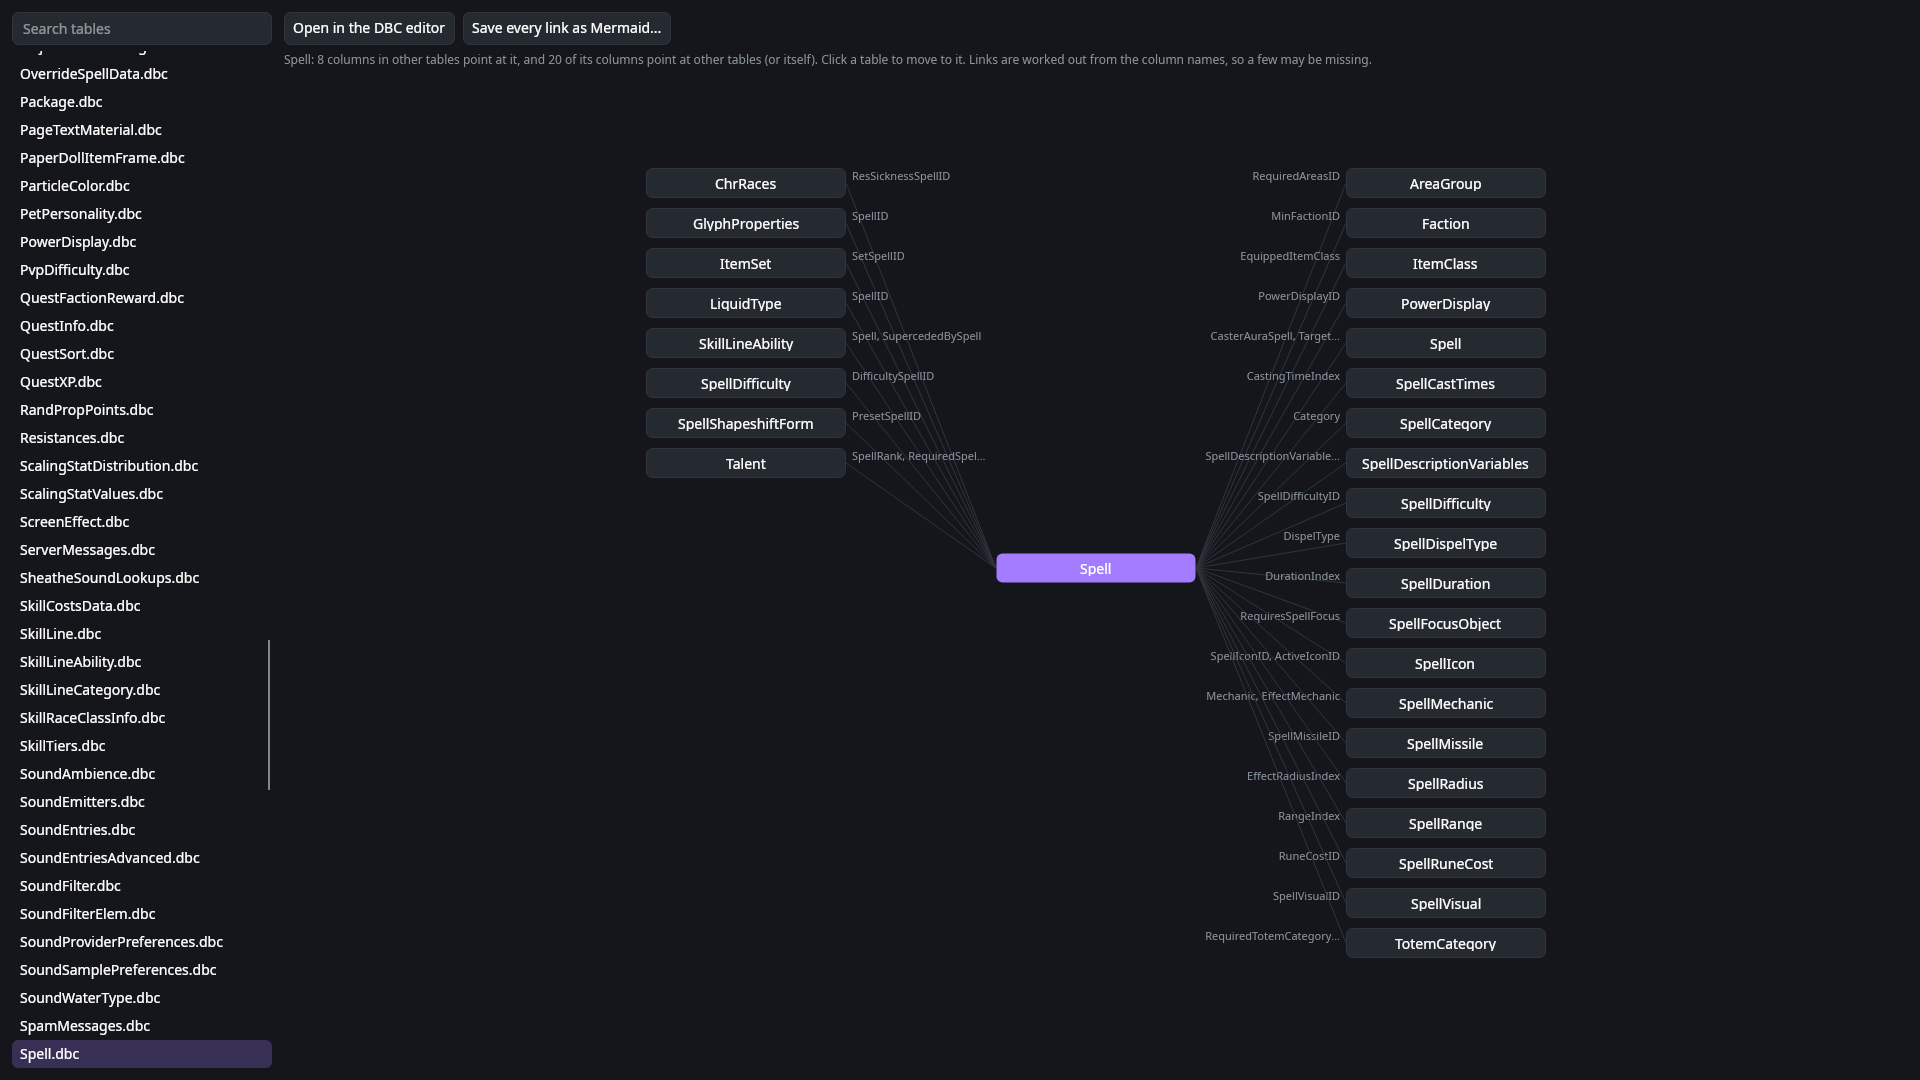
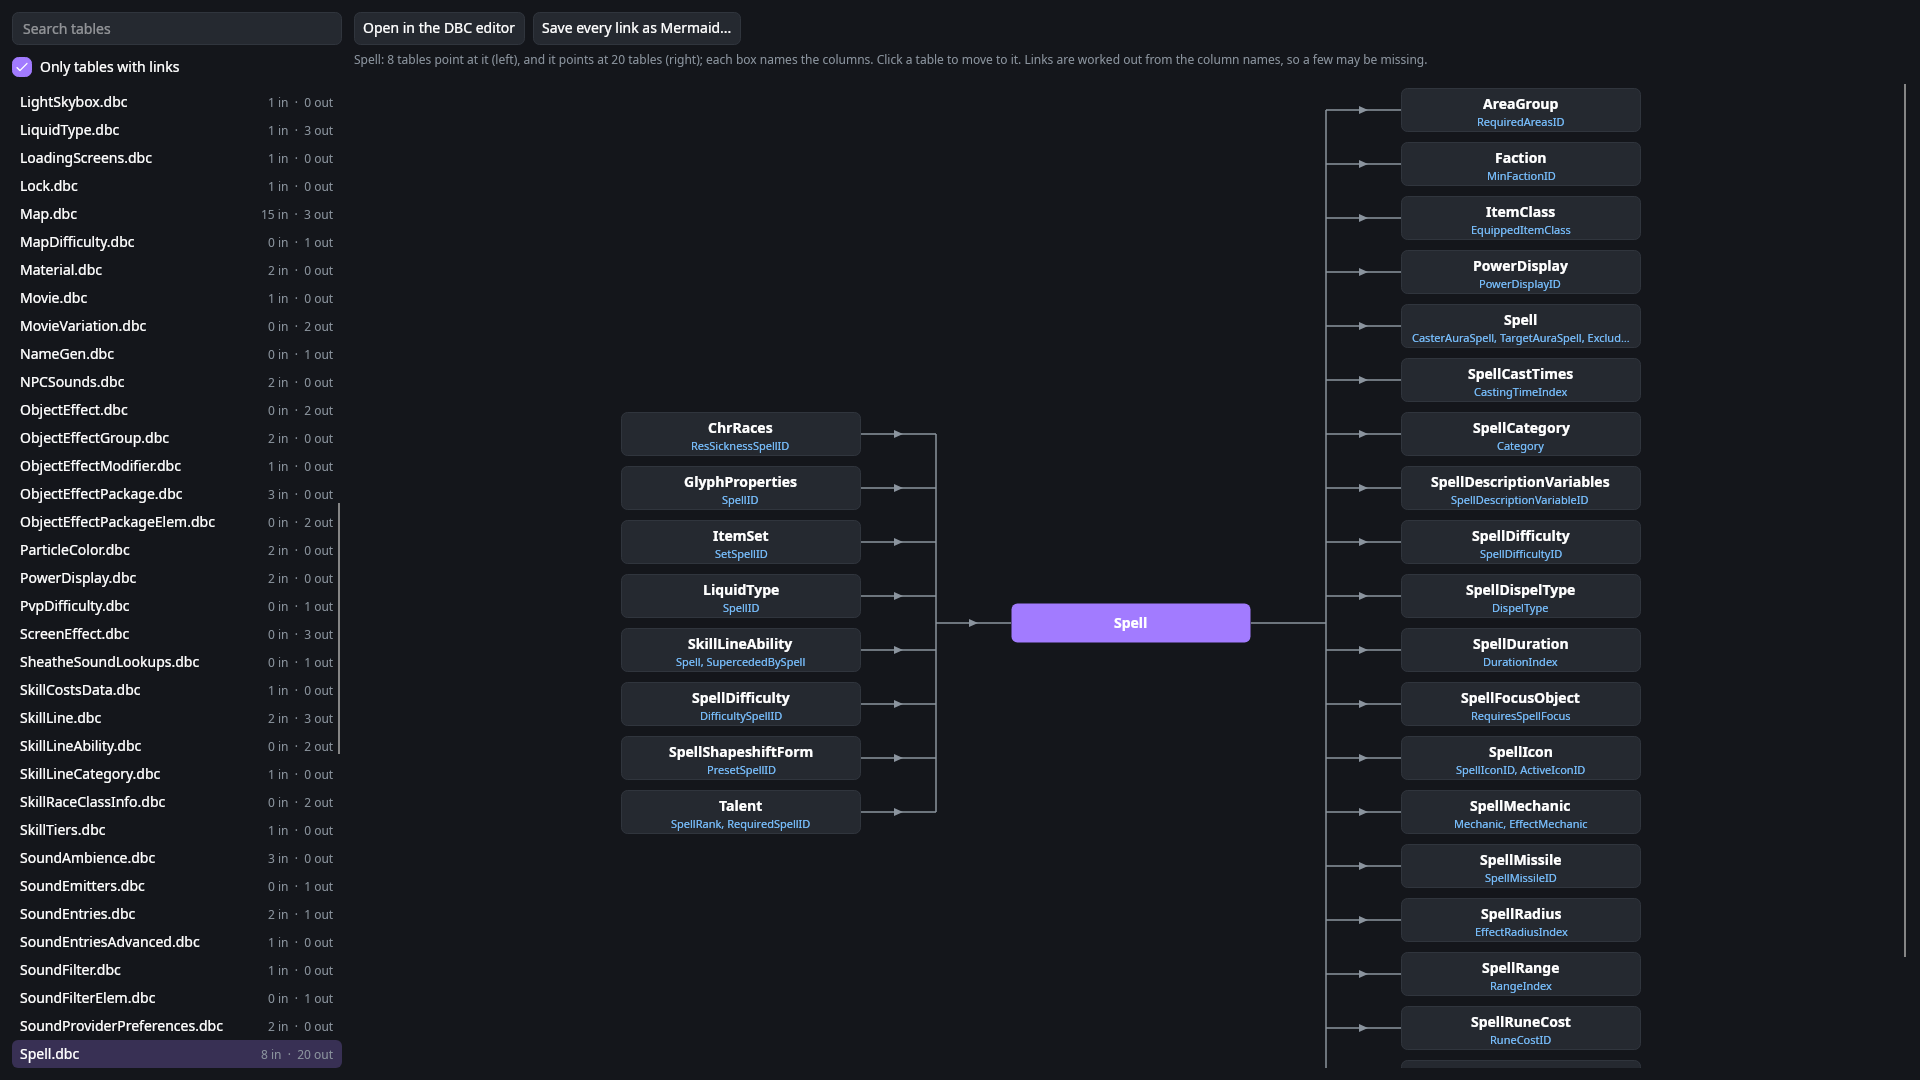
docs(Docs): Describe and show the latest DBC and spell list features
Row colours, the row menu, client text in the DBC editor, the spell
list's sort and Show lists, the editor light switch and the new Table
links, with fresh screenshots of each.

diff --git a/README.md b/README.md
@@ -156,6 +156,8 @@ also in **File > Project settings**.
 
 Laid out after Stoneharry's [WoW Spell Editor](https://github.com/stoneharry/WoW-Spell-Editor).
 
+- Sort the spell list by ID, by name (A to Z or Z to A) or recently changed first, and show just the changed
+  spells, the talents, or one class's, race's or profession's spells.
 - A searchable spell list: by ID, name, or `effect:6`, `aura:3`, `family:3`, `trigger:`, `icon:`... Normal rows
   show each spell's icon, ID and rank with a strip in its school's colour, and hovering one shows its tooltip;
   Compact rows fit more on screen (**View > Options > Spell Editor**).
@@ -241,6 +243,16 @@ Laid out after Stoneharry's [WoW Spell Editor](https://github.com/stoneharry/WoW
 
 Items show in their quality's colour with their icon when the world database can be reached; these screenshots
 were taken without one.
+
+
+<table>
+  <tr>
+    <td>
+      <img src="docs/screenshots/list-filter.png" alt="Screenshot: sorting and filtering the spell list"><br>
+      The Mage's spells, A to Z; Show also has talents, every race and every profession
+    </td>
+  </tr>
+</table>
 
 </details>
 
@@ -346,19 +358,29 @@ In the spirit of [WDBX Editor](https://github.com/WowDevTools/WDBXEditor).
 - The **Spell Editor | DBC Editor** switch in the title bar moves between them; Spell.dbc has an **Open in Spell
   Editor** button.
 - Edit cells in place, add, copy and delete rows, undo and redo, filter by ID, text or `Column=value`.
+- The editor switch in the title bar is a light switch: Spell Editor on one side, DBC Editor on the other.
 - Several tables open at once in tabs (`*` marks unsaved ones) and **Close all**. A single click opens a preview
   tab (in italics) that the next table replaces, as in VS Code; double-click or edit to keep it. Preview tabs can be
   turned off in Options.
 - Shift+click, Shift+arrows and Ctrl+A select rows; Ctrl+C copies them with a header line and Ctrl+V pastes them
   into any table with matching columns. A pasted row whose ID is taken gets the next free one.
 - Click a header to sort; right-click it to hide the column, hide every empty column, or show them all again.
-  Double-click a column's edge to fit it to its contents; text columns start wide enough to read.
+  Columns open sized to their contents; double-click a column's edge to fit it again.
+- Rows show what changed: **New** (blue) and **Changed** (orange) aren't saved yet, **Added** (green) and
+  **Edited** (pink) are saved and differ from the clean file. Changed cells are brighter, a legend explains the
+  colours, and the table list marks tables with unsaved changes (orange) or edited since import (pink).
+- Right-click a row to copy the cell, the selected rows or every shown row, paste rows at the bottom, add, copy or
+  delete rows, hide rows, or show only rows with that cell's value. Ctrl+click picks single rows.
+- Hover a column header for what it does, or a named cell for what its value means.
+- Empty language cells show, in red, the text the client's other locale folders have there.
 - Save to the project or back to the file, save as `.dbc` or CSV, import CSV, and write the shown rows or the rows
   changed from the clean file as SQL.
 - See and rename a layout's columns, saved as a definition file that replaces the built-in one.
 - 240 file layouts built in; anything else gets one guessed from its data.
-- **Tools > Table links...** maps which tables point at which: pick a table to see the tables and columns that
-  point at it and the ones it points at, open any of them, or save every link as a Mermaid diagram.
+- **Tools > Table links...** maps which tables point at which: the tables pointing at the chosen one on the left,
+  the ones it points at on the right, each box naming the columns, with arrows along the links. The list shows each
+  table's ins and outs, and only tables with links unless you untick it. Open any table, or save every link as a
+  Mermaid diagram.
 
 
 <table>
@@ -380,6 +402,26 @@ In the spirit of [WDBX Editor](https://github.com/WowDevTools/WDBXEditor).
     <td>
       <img src="docs/screenshots/columns.png" alt="Screenshot: renaming columns"><br>
       Renaming a layout's columns
+    </td>
+  </tr>
+</table>
+
+
+<table>
+  <tr>
+    <td>
+      <img src="docs/screenshots/row-marks.png" alt="Screenshot: row colours"><br>
+      Rows coloured by what changed: a saved edit (pink) and an unsaved one (orange)
+    </td>
+    <td>
+      <img src="docs/screenshots/row-menu.png" alt="Screenshot: the row menu"><br>
+      Right-click with three rows picked by Ctrl+click
+    </td>
+  </tr>
+  <tr>
+    <td>
+      <img src="docs/screenshots/dbc-client-text.png" alt="Screenshot: client text in the DBC editor"><br>
+      The client's German names in red in their empty column (AzerothCore calls it frFR)
     </td>
   </tr>
 </table>
